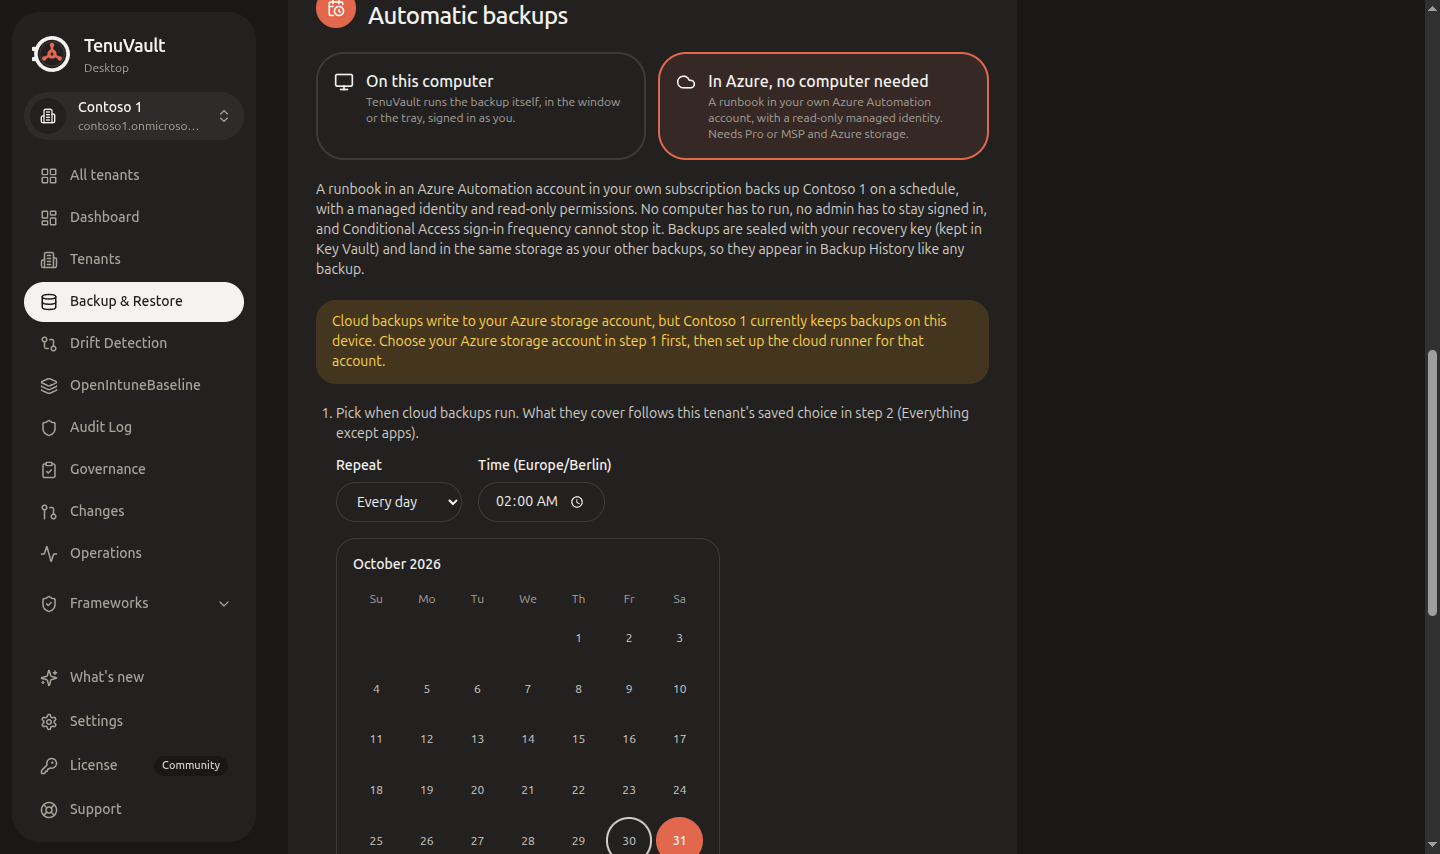
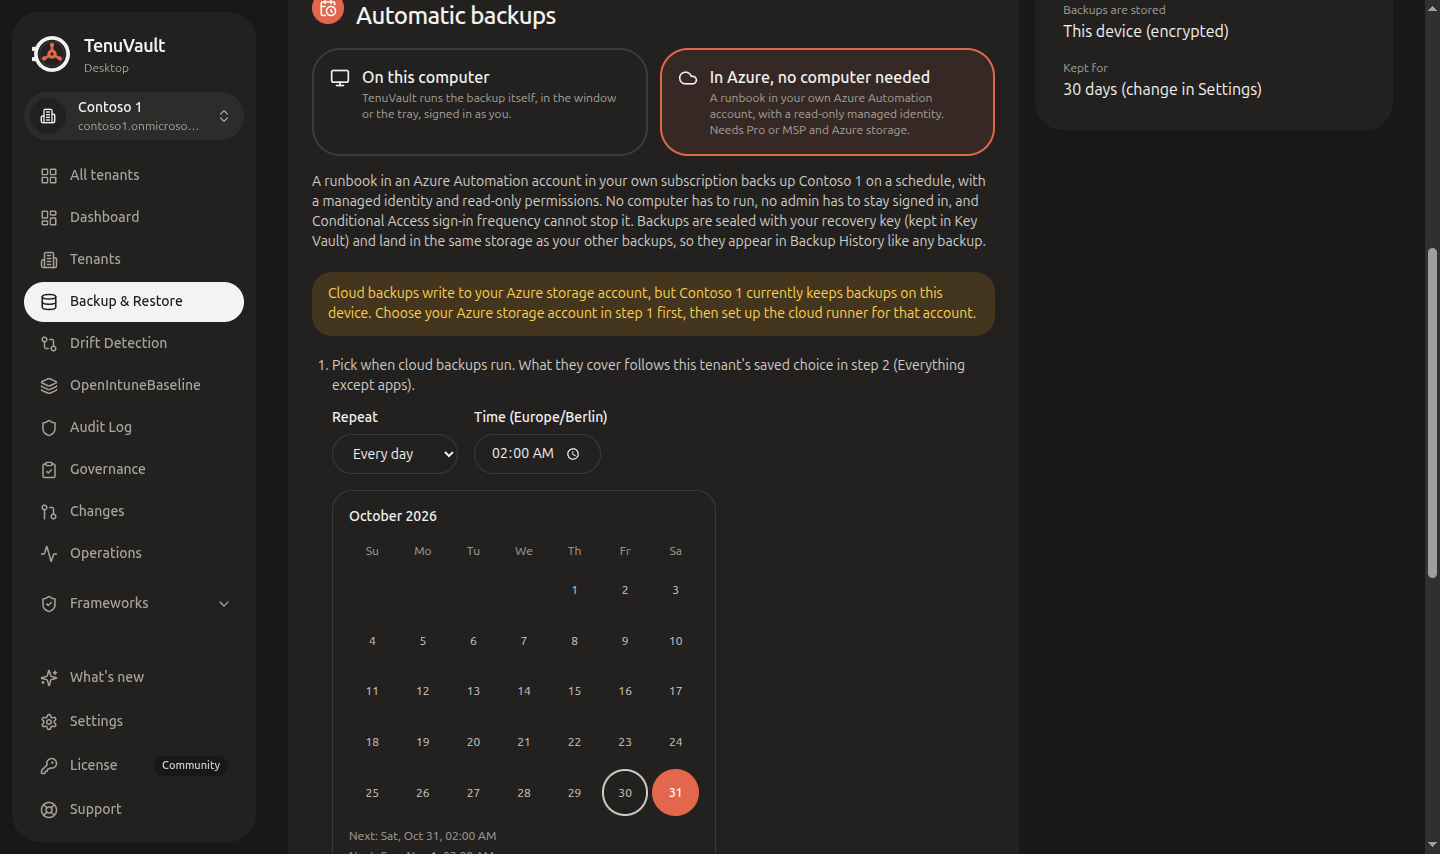
Fit the schedule flow on one screen
Storage and coverage collapse to one-line summaries with Change and Edit actions, so storage, coverage, the runner choice and the schedule controls are visible together without scrolling. Editing the scope expands the picker inline and collapses again on save.

diff --git a/src/renderer/components/BackupSchedulePanel.tsx b/src/renderer/components/BackupSchedulePanel.tsx
@@ -132,13 +132,13 @@ function TenantSchedule({ tenantId, tenantName, tenant: tenantProp, onStorageCha
   const bothRunners = !!(current?.enabled && cloud.config?.linked)
 
   return (
-    <div className="grid grid-cols-1 gap-6 lg:grid-cols-3">
-      <div className="space-y-6 lg:col-span-2">
+    <div className="grid grid-cols-1 gap-4 lg:grid-cols-3">
+      <div className="space-y-4 lg:col-span-2">
       <TenantStorageSettings tenant={tenant} tenantName={tenantName} prefs={prefs} community={community} onStorageChange={onStorageChange} />
       <BackupScopeSettings tenantId={tenantId} tenantName={tenantName} />
-      <div className="space-y-5 rounded-3xl bg-white p-7 shadow-[0_1px_2px_rgba(22,21,20,0.04)]">
+      <div className="space-y-4 rounded-3xl bg-white px-6 py-5 shadow-[0_1px_2px_rgba(22,21,20,0.04)]">
         <div className="flex items-center gap-3">
-          <span className="flex size-10 flex-shrink-0 items-center justify-center rounded-full bg-coral-500 text-white" aria-hidden="true">
+          <span className="flex size-8 flex-shrink-0 items-center justify-center rounded-full bg-coral-500 text-white" aria-hidden="true">
             <CalendarClock className="h-[18px] w-[18px]" />
           </span>
           <div>
@@ -470,6 +470,7 @@ function BackupScopeSettings({ tenantId, tenantName }: BackupSchedulePanelProps)
   const [scope, setScope] = useState<BackupScope | null>(null)
   const [saving, setSaving] = useState(false)
   const [loadError, setLoadError] = useState<string | null>(null)
+  const [editingScope, setEditingScope] = useState(false)
 
   const load = () => {
     setLoadError(null)
@@ -484,8 +485,8 @@ function BackupScopeSettings({ tenantId, tenantName }: BackupSchedulePanelProps)
   if (!scope || !saved) {
     if (!loadError) return null
     return (
-      <div className="space-y-5 rounded-3xl bg-white p-7 shadow-[0_1px_2px_rgba(22,21,20,0.04)]">
-        <h2 className="text-2xl font-medium tracking-tight text-gray-900">What to back up</h2>
+      <div className="space-y-3 rounded-3xl bg-white px-6 py-4 shadow-[0_1px_2px_rgba(22,21,20,0.04)]">
+        <h2 className="text-base font-medium text-gray-900">2 · What to back up</h2>
         <div className="flex flex-wrap items-center gap-3">
           <p role="alert" className="text-sm text-red-600">Could not load what {tenantName} backs up: {loadError}</p>
           <Button variant="outline" size="sm" onClick={load}>Try again</Button>
@@ -502,6 +503,7 @@ function BackupScopeSettings({ tenantId, tenantName }: BackupSchedulePanelProps)
       const setting = await bridge.backups.setScope(tenantId, scope)
       setSaved(setting.scope)
       setIsSaved(true)
+      setEditingScope(false)
       toast(`${tenantName} now backs up: ${describeScope(setting.scope).toLowerCase()}.`, "success")
     } catch (error) {
       toast(error instanceof Error ? error.message : String(error), "error")
@@ -511,28 +513,37 @@ function BackupScopeSettings({ tenantId, tenantName }: BackupSchedulePanelProps)
   }
 
   return (
-    <div className="space-y-5 rounded-3xl bg-white p-7 shadow-[0_1px_2px_rgba(22,21,20,0.04)]">
-      <div className="flex items-center gap-3">
-        <span className="flex size-10 flex-shrink-0 items-center justify-center rounded-full bg-coral-500 text-white" aria-hidden="true">
-          <Layers className="h-[18px] w-[18px]" />
+    <div className="rounded-3xl bg-white px-6 py-4 shadow-[0_1px_2px_rgba(22,21,20,0.04)]">
+      <div className="flex flex-wrap items-center gap-3">
+        <span className="flex size-8 flex-shrink-0 items-center justify-center rounded-full bg-coral-500 text-white" aria-hidden="true">
+          <Layers className="h-4 w-4" />
         </span>
-        <div>
-          <p className="text-xs font-medium tracking-wide text-gray-400 uppercase">Step 2 · What</p>
-          <h2 className="text-2xl font-medium tracking-tight text-gray-900">What to back up</h2>
+        <div className="min-w-0 flex-1">
+          <h2 className="text-base font-medium text-gray-900">2 · What to back up</h2>
+          <p className="truncate text-sm text-gray-500">
+            {describeScope(saved)}{isSaved ? "" : " (default)"}, used by automatic backups and "Back up all tenants now"
+          </p>
+        </div>
+        {!editingScope && (
+          <Button variant="outline" size="sm" onClick={() => setEditingScope(true)}>Edit</Button>
+        )}
+      </div>
+      {editingScope && (
+        <div className="mt-4 space-y-4 border-t border-gray-100 pt-4">
           <p className="text-sm text-gray-500">
             Used by automatic backups (on this computer and in Azure) and "Back up all tenants now", and preselected when you run a backup by hand.
           </p>
+          <BackupScopePicker value={scope} onChange={setScope} disabled={saving} />
+          <div className="flex items-center gap-3">
+            <Button disabled={!dirty || empty || saving} onClick={() => void save()}>
+              {saving && <Loader2 className="mr-2 h-4 w-4 animate-spin" />}
+              Save
+            </Button>
+            <Button variant="ghost" size="sm" onClick={() => { setScope(saved); setEditingScope(false) }}>Done</Button>
+            {empty && <span className="text-sm text-red-600">Choose at least one type.</span>}
+          </div>
         </div>
-      </div>
-      <BackupScopePicker value={scope} onChange={setScope} disabled={saving} />
-      <div className="flex items-center gap-3">
-        <Button disabled={!dirty || empty || saving} onClick={() => void save()}>
-          {saving && <Loader2 className="mr-2 h-4 w-4 animate-spin" />}
-          Save
-        </Button>
-        {!dirty && <span className="text-sm text-gray-500">{isSaved ? describeScope(saved) : `${describeScope(saved)} (default)`}</span>}
-        {empty && <span className="text-sm text-red-600">Choose at least one type.</span>}
-      </div>
+      )}
     </div>
   )
 }
@@ -571,41 +582,37 @@ function TenantStorageSettings({ tenant, tenantName, prefs, community, onStorage
   }
 
   return (
-    <div className="space-y-5 rounded-3xl bg-white p-7 shadow-[0_1px_2px_rgba(22,21,20,0.04)]">
-      <div className="flex items-center gap-3">
-        <span className="flex size-10 flex-shrink-0 items-center justify-center rounded-full bg-coral-500 text-white" aria-hidden="true">
-          <Database className="h-[18px] w-[18px]" />
+    <div className="rounded-3xl bg-white px-6 py-4 shadow-[0_1px_2px_rgba(22,21,20,0.04)]">
+      <div className="flex flex-wrap items-center gap-3">
+        <span className="flex size-8 flex-shrink-0 items-center justify-center rounded-full bg-coral-500 text-white" aria-hidden="true">
+          <Database className="h-4 w-4" />
         </span>
-        <div>
-          <p className="text-xs font-medium tracking-wide text-gray-400 uppercase">Step 1 · Where backups are stored</p>
-          <h2 className="text-2xl font-medium tracking-tight text-gray-900">Backup storage</h2>
-        </div>
-      </div>
-      <dl className="space-y-3 text-sm">
-        <div>
-          <dt className="text-xs text-gray-500">Backups for {tenantName} go to</dt>
-          <dd className="mt-0.5 flex items-center gap-2 text-base text-gray-900">
-            {local ? <HardDrive className="h-4 w-4 flex-shrink-0" aria-hidden="true" /> : <Cloud className="h-4 w-4 flex-shrink-0" aria-hidden="true" />}
-            {storageLabel(account || undefined)}
-          </dd>
-          <dd className="text-xs text-gray-500">
+        <div className="min-w-0 flex-1">
+          <h2 className="flex items-center gap-2 text-base font-medium text-gray-900">
+            1 · Backup storage
+            <span className="flex items-center gap-1.5 text-sm font-normal text-gray-700">
+              {local ? <HardDrive className="h-4 w-4 flex-shrink-0" aria-hidden="true" /> : <Cloud className="h-4 w-4 flex-shrink-0" aria-hidden="true" />}
+              {storageLabel(account || undefined)}
+            </span>
+          </h2>
+          <p className="text-xs break-all text-gray-500">
             {local
-              ? `Encrypted in ${settings?.localFolder ?? "the TenuVault Backups folder"} on this device${settings ? `, recovery key ${settings.keyFingerprint}${settings.recoveryExported ? " saved" : " not saved yet"}` : ""}. Only this computer can make and see these backups until the recovery key is imported elsewhere. Available on every plan.`
-              : `Encrypted before upload to your storage account${tenant?.resources?.resourceGroupName ? ` (${tenant.resources.resourceGroupName})` : ""}, container intune-backups. Every admin with access and the recovery key sees the same backups, and it is the storage cloud backups write to.`}
+              ? `Backups for ${tenantName} go to ${settings?.localFolder ?? "the TenuVault Backups folder"}${settings ? `, recovery key ${settings.keyFingerprint}${settings.recoveryExported ? " saved" : " not saved yet"}` : ""}.`
+              : `Backups for ${tenantName} go to container intune-backups${tenant?.resources?.resourceGroupName ? `, ${tenant.resources.resourceGroupName}` : ""}.`}
             {prefs ? ` Kept for ${community ? `${prefs.retentionDays === 0 ? COMMUNITY_RETENTION_DAYS : Math.min(prefs.retentionDays, COMMUNITY_RETENTION_DAYS)} days (Community)` : prefs.retentionDays === 0 ? "forever" : `${prefs.retentionDays} days`}.` : ""}
             {" "}Backups never go to a TenuVault server.
-          </dd>
+          </p>
         </div>
-      </dl>
-      {community && local && <UpgradeNote feature="azureStorage" />}
-      <div className="flex flex-wrap gap-2">
-        <Button variant="outline" size="sm" disabled={!tenant?.credentials || !onStorageChange} onClick={() => { setChoice(null); setEditing(true) }}>
-          Change storage
-        </Button>
-        <Link to={settingsHref("storage")} className="inline-flex items-center rounded-full px-3 py-1.5 text-sm font-medium underline">
-          Folder and recovery key in Settings
-        </Link>
+        <div className="flex shrink-0 flex-wrap items-center gap-2">
+          <Button variant="outline" size="sm" disabled={!tenant?.credentials || !onStorageChange} onClick={() => { setChoice(null); setEditing(true) }}>
+            Change storage
+          </Button>
+          <Link to={settingsHref("storage")} className="inline-flex items-center rounded-full px-2 py-1.5 text-xs font-medium underline">
+            Folder and recovery key
+          </Link>
+        </div>
       </div>
+      {community && local && <div className="mt-3"><UpgradeNote feature="azureStorage" /></div>}
 
       <Dialog open={editing} onOpenChange={(open) => { if (!open) { setDraft(null); setEditing(false) } }}>
         <DialogContent className="sm:max-w-[620px]">
